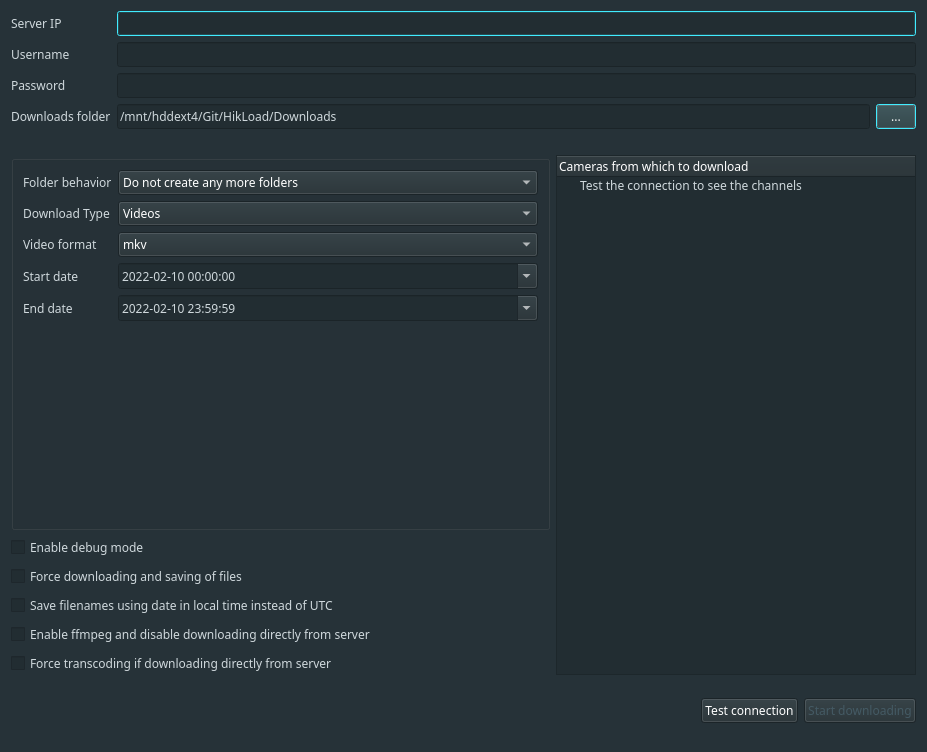
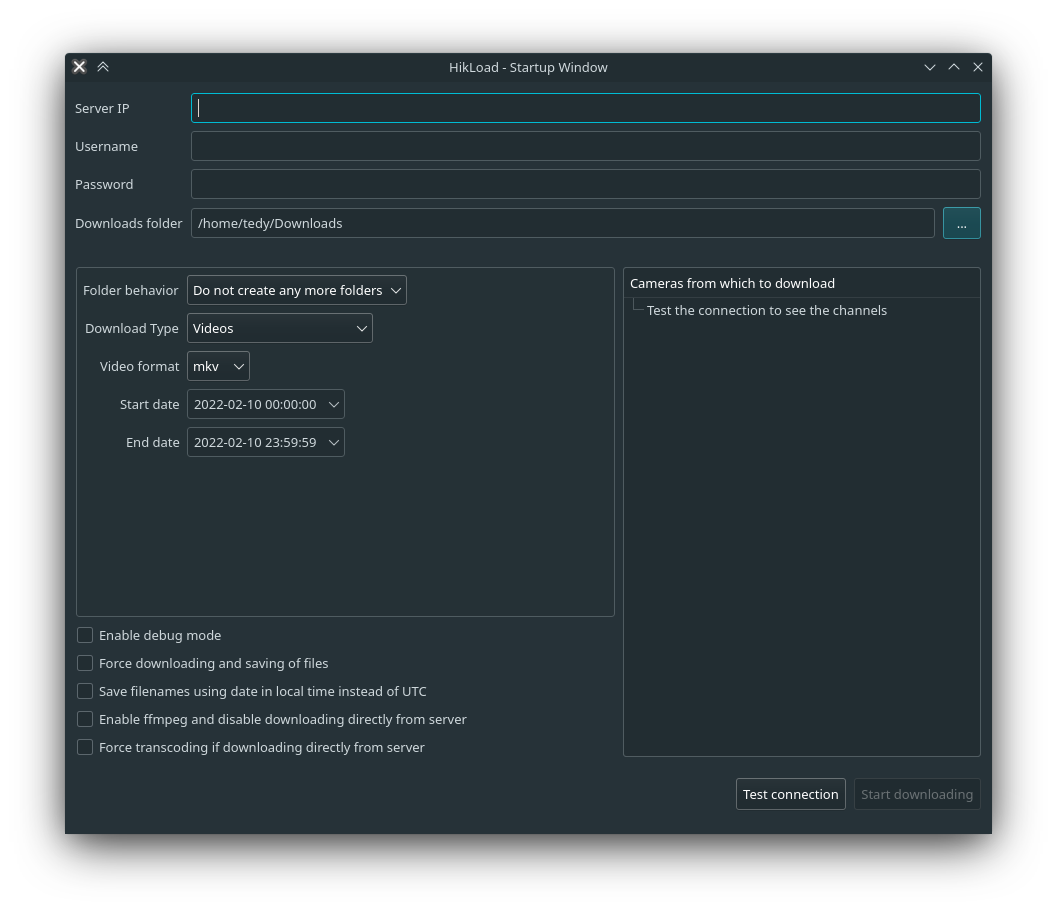
docs: update demonstration photos in README.md

Changed region(s): [[0.0, 0.0, 1.0, 1.0], [0.5739, 0.3059, 0.8457, 0.367], [0.8155, 0.8564, 0.9061, 0.887]]

diff --git a/README.md b/README.md
@@ -6,7 +6,9 @@ A collection of short Python scripts that utilize the ISAPI specification for Hi
 
 If you want to use the new interface written in Qt, you can use the command `hikload-qt` after installing using one of the recommended methods (only pip and source). 
 
-![The startup popup](docs/startup.png)
+![The Startup popup](docs/startup.png)
+
+![The Main Window](docs/mainwindow.png)
 
 ## Using the terminal
 
